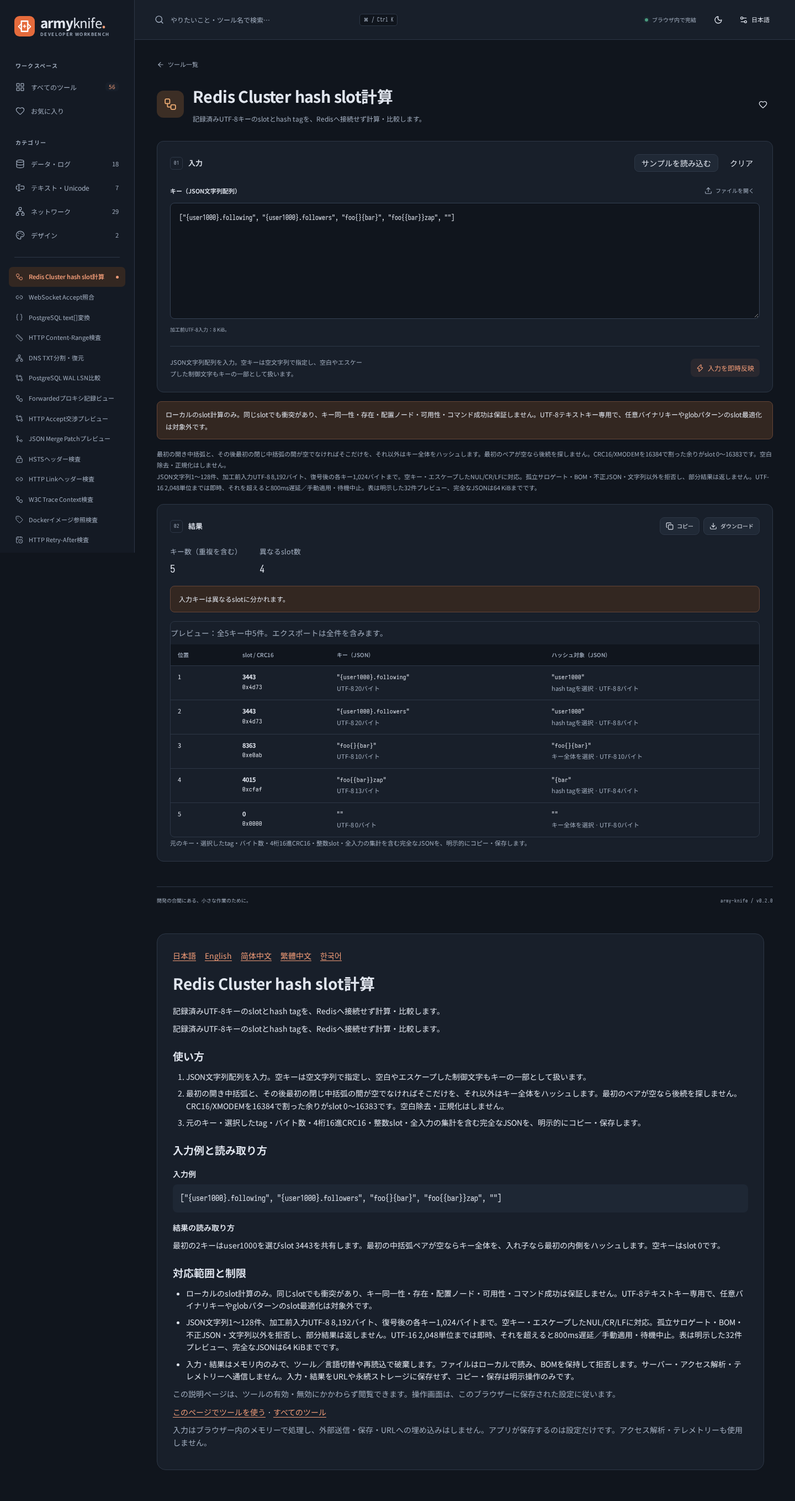
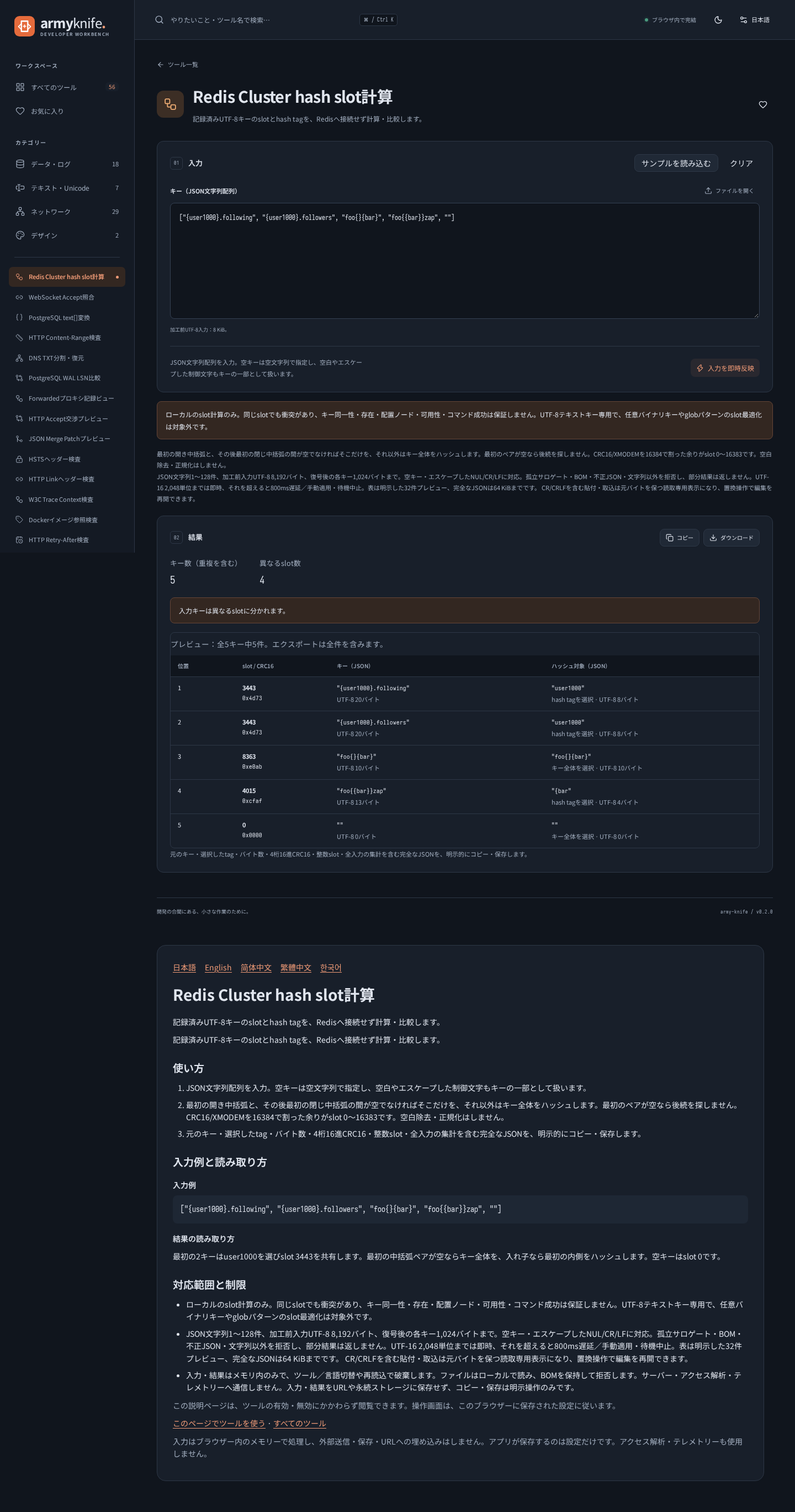
fix: preserve raw Redis inputs and match live asset audits

diff --git a/src/i18n/redis-slots.ts b/src/i18n/redis-slots.ts
@@ -20,7 +20,7 @@ const en = {
   "redis.preview": "Preview: {shown} of {total} keys. Export includes every key.",
   "redis.scope": "Local slot arithmetic only. Equal slots can collide and do not prove equal keys, key existence, node placement, availability or command success. UTF-8 text keys only; arbitrary binary keys and glob-pattern slot optimization are outside this tool.",
   "redis.grammar": "Hash the nonempty text between the first opening brace and the next closing brace; otherwise hash the whole key. An empty first pair prevents searching for a later tag. CRC16/XMODEM modulo 16384 gives slots 0–16383. Text is never trimmed or normalized.",
-  "redis.limits": "1–128 JSON strings; raw input 8,192 UTF-8 bytes; each decoded key 1,024 bytes. Empty keys and escaped NUL/CR/LF are supported. Reject lone surrogates, BOM, malformed JSON and nonstrings without partial output. Up to 2,048 UTF-16 units applies immediately; larger input waits 800ms or manual apply, with cancellation. The labelled table shows 32 rows; complete JSON is limited to 64 KiB.",
+  "redis.limits": "1–128 JSON strings; raw input 8,192 UTF-8 bytes; each decoded key 1,024 bytes. Empty keys and escaped NUL/CR/LF are supported. Reject lone surrogates, BOM, malformed JSON and nonstrings without partial output. Up to 2,048 UTF-16 units applies immediately; larger input waits 800ms or manual apply, with cancellation. The labelled table shows 32 rows; complete JSON is limited to 64 KiB. CR/CRLF pastes and imports retain original bytes in a protected read-only preview; use replacement to resume editing.",
   "redis.privacy": "Input and results stay in memory and clear on tool/language navigation or reload. Files are read locally; BOM is preserved for rejection. No server, analytics or telemetry is contacted. No input or result is saved in a URL or persistent storage. Copy/download happens only on request.",
   "redis.exportHelp": "Explicitly copy or download the complete JSON report, including original keys, selected tags, byte counts, four-digit hexadecimal CRC16, integer slots and full-input slot totals.",
   "redis.exampleResult": "The first two example keys select user1000 and share slot 3443. An empty first brace pair hashes the whole key; nested braces select the first interior. The empty key hashes to slot 0.",
@@ -53,7 +53,7 @@ const ja: Messages = {
   "redis.preview": "プレビュー：全{total}キー中{shown}件。エクスポートは全件を含みます。",
   "redis.scope": "ローカルのslot計算のみ。同じslotでも衝突があり、キー同一性・存在・配置ノード・可用性・コマンド成功は保証しません。UTF-8テキストキー専用で、任意バイナリキーやglobパターンのslot最適化は対象外です。",
   "redis.grammar": "最初の開き中括弧と、その後最初の閉じ中括弧の間が空でなければそこだけを、それ以外はキー全体をハッシュします。最初のペアが空なら後続を探しません。CRC16/XMODEMを16384で割った余りがslot 0〜16383です。空白除去・正規化はしません。",
-  "redis.limits": "JSON文字列1〜128件、加工前入力UTF-8 8,192バイト、復号後の各キー1,024バイトまで。空キー・エスケープしたNUL/CR/LFに対応。孤立サロゲート・BOM・不正JSON・文字列以外を拒否し、部分結果は返しません。UTF-16 2,048単位までは即時、それを超えると800ms遅延／手動適用・待機中止。表は明示した32件プレビュー、完全なJSONは64 KiBまでです。",
+  "redis.limits": "JSON文字列1〜128件、加工前入力UTF-8 8,192バイト、復号後の各キー1,024バイトまで。空キー・エスケープしたNUL/CR/LFに対応。孤立サロゲート・BOM・不正JSON・文字列以外を拒否し、部分結果は返しません。UTF-16 2,048単位までは即時、それを超えると800ms遅延／手動適用・待機中止。表は明示した32件プレビュー、完全なJSONは64 KiBまでです。 CR/CRLFを含む貼付・取込は元バイトを保つ読取専用表示になり、置換操作で編集を再開できます。",
   "redis.privacy": "入力・結果はメモリ内のみで、ツール／言語切替や再読込で破棄します。ファイルはローカルで読み、BOMを保持して拒否します。サーバー・アクセス解析・テレメトリーへ通信しません。入力・結果をURLや永続ストレージに保存せず、コピー・保存は明示操作のみです。",
   "redis.exportHelp": "元のキー・選択したtag・バイト数・4桁16進CRC16・整数slot・全入力の集計を含む完全なJSONを、明示的にコピー・保存します。",
   "redis.exampleResult": "最初の2キーはuser1000を選びslot 3443を共有します。最初の中括弧ペアが空ならキー全体を、入れ子なら最初の内側をハッシュします。空キーはslot 0です。",
@@ -77,7 +77,7 @@ const zhCN: Messages = {
   "redis.bytes": "{count} UTF-8 字节", "redis.preview": "预览：{total} 个键中的 {shown} 个。导出包含全部键。",
   "redis.scope": "仅在本地计算槽位。同槽可能碰撞，不证明键相同、存在、节点分配、可用性或命令成功。仅支持 UTF-8 文本键；不支持任意二进制键或 glob 模式槽优化。",
   "redis.grammar": "取第一个左花括号与其后第一个右花括号之间的非空文本，否则使用完整键。首对为空时不再查找后续标签。CRC16/XMODEM 对 16384 取余得到 0–16383 的槽位。不删除空格或规范化文本。",
-  "redis.limits": "1–128 个 JSON 字符串，原始 UTF-8 输入 8,192 字节，每个解码键 1,024 字节。支持空键和转义 NUL/CR/LF。拒绝孤立代理项、BOM、无效 JSON 和非字符串，不返回部分结果。2,048 UTF-16 单位以内即时更新，更长时延迟 800ms 或手动应用，可取消等待。表格明确预览 32 行，完整 JSON 上限 64 KiB。",
+  "redis.limits": "1–128 个 JSON 字符串，原始 UTF-8 输入 8,192 字节，每个解码键 1,024 字节。支持空键和转义 NUL/CR/LF。拒绝孤立代理项、BOM、无效 JSON 和非字符串，不返回部分结果。2,048 UTF-16 单位以内即时更新，更长时延迟 800ms 或手动应用，可取消等待。表格明确预览 32 行，完整 JSON 上限 64 KiB。 含 CR/CRLF 的粘贴或导入保留原始字节，以只读方式显示；替换后可继续编辑。",
   "redis.privacy": "输入与结果仅保存在内存，切换工具、语言或刷新时清除。本地读取文件并保留 BOM 以拒绝。不联系服务器、访问统计或遥测，不写入 URL 或持久存储。复制与下载需明确操作。",
   "redis.exportHelp": "明确复制或下载完整 JSON，包含原始键、选定标签、字节数、四位十六进制 CRC16、整数槽位及全部输入的槽位汇总。",
   "redis.exampleResult": "前两个示例键选择 user1000 并共享槽 3443。首对花括号为空时使用完整键，嵌套时取第一个内部文本。空键位于槽 0。",
@@ -101,7 +101,7 @@ const zhTW: Messages = {
   "redis.bytes": "{count} UTF-8 位元組", "redis.preview": "預覽：{total} 個鍵中的 {shown} 個。匯出包含全部鍵。",
   "redis.scope": "僅在本機計算槽位。同槽可能碰撞，不證明鍵相同、存在、節點配置、可用性或命令成功。僅支援 UTF-8 文字鍵；不支援任意二進位鍵或 glob 模式槽最佳化。",
   "redis.grammar": "取第一個左大括號與其後第一個右大括號之間的非空文字，否則使用完整鍵。首對為空時不再尋找後續標籤。CRC16/XMODEM 對 16384 取餘數得到 0–16383 的槽位。不刪除空白或正規化文字。",
-  "redis.limits": "1–128 個 JSON 字串，原始 UTF-8 輸入 8,192 位元組，每個解碼鍵 1,024 位元組。支援空鍵與跳脫 NUL/CR/LF。拒絕孤立代理項、BOM、無效 JSON 與非字串，不回傳部分結果。2,048 UTF-16 單位內即時更新，更長時延遲 800ms 或手動套用，可取消等待。表格明確預覽 32 列，完整 JSON 上限 64 KiB。",
+  "redis.limits": "1–128 個 JSON 字串，原始 UTF-8 輸入 8,192 位元組，每個解碼鍵 1,024 位元組。支援空鍵與跳脫 NUL/CR/LF。拒絕孤立代理項、BOM、無效 JSON 與非字串，不回傳部分結果。2,048 UTF-16 單位內即時更新，更長時延遲 800ms 或手動套用，可取消等待。表格明確預覽 32 列，完整 JSON 上限 64 KiB。 含 CR/CRLF 的貼上或匯入保留原始位元組，以唯讀方式顯示；取代後可繼續編輯。",
   "redis.privacy": "輸入與結果僅存於記憶體，切換工具、語言或重新載入時清除。本機讀取檔案並保留 BOM 以拒絕。不聯絡伺服器、造訪統計或遙測，不寫入 URL 或持久儲存。複製與下載需明確操作。",
   "redis.exportHelp": "明確複製或下載完整 JSON，包含原始鍵、選定標籤、位元組數、四位十六進位 CRC16、整數槽位及全部輸入的槽位彙總。",
   "redis.exampleResult": "前兩個範例鍵選擇 user1000 並共用槽 3443。首對大括號為空時使用完整鍵，巢狀時取第一個內部文字。空鍵位於槽 0。",
@@ -125,7 +125,7 @@ const ko: Messages = {
   "redis.bytes": "UTF-8 {count}바이트", "redis.preview": "미리보기: 전체 {total}개 중 {shown}개 키. 내보내기는 전체를 포함합니다.",
   "redis.scope": "로컬 슬롯 계산만 합니다. 같은 슬롯에도 충돌이 가능하며 키 동일성·존재·노드 배치·가용성·명령 성공을 보장하지 않습니다. UTF-8 텍스트 키 전용이며 임의 바이너리 키나 glob 패턴 슬롯 최적화는 지원하지 않습니다.",
   "redis.grammar": "첫 여는 중괄호와 그다음 첫 닫는 중괄호 사이가 비어 있지 않으면 해당 텍스트를, 그 외에는 전체 키를 해시합니다. 첫 쌍이 비면 뒤의 태그를 찾지 않습니다. CRC16/XMODEM을 16384로 나눈 나머지가 슬롯 0–16383입니다. 공백 제거나 정규화를 하지 않습니다.",
-  "redis.limits": "JSON 문자열 1–128개, 원본 UTF-8 입력 8,192바이트, 디코딩한 키당 1,024바이트. 빈 키와 이스케이프 NUL/CR/LF를 지원합니다. 고립 서로게이트·BOM·잘못된 JSON·문자열 이외 값은 부분 결과 없이 거부합니다. UTF-16 2,048단위까지 즉시, 초과 시 800ms 지연 또는 수동 적용과 대기 취소를 지원합니다. 표는 명시한 32행 미리보기이며 전체 JSON은 64 KiB까지입니다.",
+  "redis.limits": "JSON 문자열 1–128개, 원본 UTF-8 입력 8,192바이트, 디코딩한 키당 1,024바이트. 빈 키와 이스케이프 NUL/CR/LF를 지원합니다. 고립 서로게이트·BOM·잘못된 JSON·문자열 이외 값은 부분 결과 없이 거부합니다. UTF-16 2,048단위까지 즉시, 초과 시 800ms 지연 또는 수동 적용과 대기 취소를 지원합니다. 표는 명시한 32행 미리보기이며 전체 JSON은 64 KiB까지입니다. CR/CRLF 붙여넣기·가져오기는 원본 바이트를 읽기 전용으로 보존하며 바꾸기 동작으로 편집을 재개합니다.",
   "redis.privacy": "입력과 결과는 메모리에만 있고 도구·언어 전환이나 새로고침 시 지웁니다. 파일은 로컬에서 읽고 BOM은 보존하여 거부합니다. 서버·방문 분석·원격 측정에 연결하지 않으며 URL이나 영구 저장소에 입력·결과를 저장하지 않습니다. 복사·다운로드는 명시적으로 실행합니다.",
   "redis.exportHelp": "원본 키, 선택한 태그, 바이트 수, 네 자리 16진 CRC16, 정수 슬롯, 전체 입력 슬롯 집계를 포함한 완전한 JSON을 명시적으로 복사·다운로드합니다.",
   "redis.exampleResult": "첫 두 예제 키는 user1000을 선택하여 슬롯 3443을 공유합니다. 첫 중괄호 쌍이 비면 전체 키를, 중첩 시 첫 내부 텍스트를 해시합니다. 빈 키는 슬롯 0입니다.",

diff --git a/tests/e2e/redis-slots.spec.ts b/tests/e2e/redis-slots.spec.ts
@@ -1,18 +1,12 @@
-import { readdir } from "node:fs/promises";
+import { readFile } from "node:fs/promises";
 import { resolve } from "node:path";
 import { test as base, expect } from "@playwright/test";
 import { redisSlotsMessages } from "../../src/i18n/redis-slots";
 import { REDIS_SLOTS_SAMPLE } from "../../src/lib/tools/redis-slots-sample";
+import { parsePublicAssets } from "../../scripts/public-assets";
 
 const PRIVATE = "PRIVATE_REDIS_SLOTS_175";
-async function assets(dir: string, prefix = "/army-knife/"): Promise<string[]> {
-  return (await Promise.all((await readdir(dir, { withFileTypes: true })).map(entry =>
-    entry.isDirectory() ? assets(`${dir}/${entry.name}`, `${prefix}${entry.name}/`) : [`${prefix}${entry.name}`],
-  ))).flat();
-}
-const allowed = assets("dist").then(paths => new Set([
-  ...paths, ...paths.filter(path => path.endsWith("index.html")).map(path => path.slice(0, -10)),
-]));
+const allowed = readFile("dist/public-assets.json", "utf8").then(text => parsePublicAssets(text));
 const test = base.extend<{ audit: void }>({
   audit: [async ({ context, page, baseURL }, use) => {
     const requests: { url: string; method: string; headers: Record<string, string>; body: string | null }[] = [];
@@ -145,6 +139,28 @@ test("pending local file reads hide exports and cannot overwrite a sample", asyn
   await page.evaluate(() => (window as unknown as { finishRead: () => void }).finishRead());
   await expect(page.locator("#redis-slots-input")).toHaveValue(REDIS_SLOTS_SAMPLE);
   await expect(page.getByTestId("redis-slots-slot").first()).toHaveText("3443");
+});
+
+test("raw CRLF paste boundaries and protected original-byte workflow", async ({ page }) => {
+  await page.goto("./en/tools/redis-slots/"); await page.getByTestId("redis-slots-sample").click();
+  const input = page.locator("#redis-slots-input"), result = page.getByTestId("redis-slots-result");
+  const paste = (value: string) => input.evaluate((element, text) => {
+    const field = element as HTMLTextAreaElement; field.focus(); field.setSelectionRange(0, field.value.length);
+    const event = new Event("paste", { bubbles: true, cancelable: true });
+    Object.defineProperty(event, "clipboardData", { value: { getData: () => text } }); field.dispatchEvent(event);
+    return event.defaultPrevented;
+  }, value);
+  const exact = '["界"]\r\n' + " ".repeat(8183);
+  expect(Buffer.byteLength(exact)).toBe(8192); expect(await paste(exact)).toBe(true);
+  await expect(input).toHaveAttribute("readonly", ""); await expect(page.getByTestId("preserved-cr-input")).toBeVisible();
+  await page.getByTestId("apply-now").click(); await expect(page.getByTestId("redis-slots-count")).toHaveText("1");
+  const pending = page.waitForEvent("download"); await page.getByTestId("download-raw-cr-input").click();
+  const download = await pending, chunks: Buffer[] = [];
+  for await (const chunk of (await download.createReadStream())!) chunks.push(chunk);
+  expect(Buffer.concat(chunks).toString("utf8")).toBe(exact);
+  await page.getByTestId("replace-raw-cr-input").click(); await expect(input).toHaveValue(""); await expect(result).toHaveCount(0);
+  await page.getByTestId("redis-slots-sample").click(); expect(await paste(exact + " ")).toBe(true);
+  await expect(result).toHaveCount(0); await expect(page.locator(".output-actions")).toHaveCount(0);
 });
 
 test.describe("production hostname privacy", () => {

diff --git a/scripts/public-assets.ts b/scripts/public-assets.ts
@@ -1,0 +1,38 @@
+import { readdirSync, writeFileSync } from "node:fs";
+import { join } from "node:path";
+
+const BASE = "/army-knife/";
+export const PUBLIC_ASSETS_FILE = "public-assets.json";
+
+/** Build-time file inventory; never includes tool input or runtime state. */
+export function distributionFiles(root: string, prefix = BASE): string[] {
+  return readdirSync(root, { withFileTypes: true }).flatMap(entry => {
+    if (entry.isSymbolicLink()) throw new Error("Public asset manifest cannot contain symlinks.");
+    return entry.isDirectory() ? distributionFiles(join(root, entry.name), prefix + entry.name + "/") : [prefix + entry.name];
+  }).sort();
+}
+
+export function writePublicAssets(root: string, revision: string): void {
+  if (!/^[0-9a-f]{40}$/.test(revision)) throw new Error("Invalid public asset revision.");
+  const paths = [...new Set([...distributionFiles(root), BASE + PUBLIC_ASSETS_FILE])].sort();
+  writeFileSync(join(root, PUBLIC_ASSETS_FILE), JSON.stringify({ schema: 1, revision, paths }, null, 2) + "\n");
+}
+
+/** Shared by local and actual-Pages browser audits, including the clean CI runner. */
+export function parsePublicAssets(text: string, expectedRevision?: string): Set<string> {
+  const invalid = () => new Error("Invalid public asset manifest.");
+  if (text.length > 1024 * 1024) throw invalid();
+  let data;
+  try { data = JSON.parse(text); } catch { throw invalid(); }
+  if (!data || data.schema !== 1 || typeof data.revision !== "string" || !/^[0-9a-f]{40}$/.test(data.revision) ||
+      !Array.isArray(data.paths) || data.paths.length === 0 || data.paths.length > 10000) throw invalid();
+  if (expectedRevision !== undefined && data.revision !== expectedRevision) throw new Error("Public asset revision does not match the deployed revision.");
+  const paths = data.paths as unknown[];
+  if (paths.some(path => typeof path !== "string" || !path.startsWith(BASE) || path.endsWith("/") || /[?#%\\\s]/u.test(path) ||
+      Array.from(path).some(c => c.charCodeAt(0) < 0x20 || c.charCodeAt(0) === 0x7f) ||
+      path.slice(1).split("/").some(part => part === "." || part === ".." || part === ""))) throw invalid();
+  const files = paths as string[];
+  if (new Set(files).size !== files.length || files.some((path, i) => i > 0 && files[i - 1]! >= path) ||
+      !files.includes(BASE + PUBLIC_ASSETS_FILE) || !files.includes(BASE + "index.html")) throw invalid();
+  return new Set(files.flatMap(path => path.endsWith("/index.html") ? [path, path.slice(0, -10)] : [path]));
+}

diff --git a/src/components/tools/RedisSlotsTool.test.ts b/src/components/tools/RedisSlotsTool.test.ts
@@ -108,6 +108,28 @@ describe("Redis slots real Vapor view", () => {
     expect(wrapper.get("#redis-slots-input").element).toHaveProperty("value", REDIS_SLOTS_SAMPLE);
     expect(wrapper.get('[data-testid="redis-slots-slot"]').text()).toBe("3443");
   });
+  it("checks original pasted CRLF bytes on both sides of the raw UTF-8 boundary", async () => {
+    settings.preferences.autoApply = false;
+    const paste = async (text: string) => {
+      const field = wrapper.get("#redis-slots-input").element as HTMLTextAreaElement;
+      field.setSelectionRange(0, field.value.length);
+      const event = new Event("paste", { bubbles: true, cancelable: true });
+      Object.defineProperty(event, "clipboardData", { value: { getData: () => text } });
+      field.dispatchEvent(event); await flushPromises(); return event;
+    };
+    await sample();
+    const exact = '["界"]\r\n' + " ".repeat(8183);
+    expect(new TextEncoder().encode(exact)).toHaveLength(8192);
+    expect((await paste(exact)).defaultPrevented).toBe(true);
+    expect(wrapper.find('[data-testid="preserved-cr-input"]').exists()).toBe(true);
+    await wrapper.get('[data-testid="apply-now"]').trigger("click");
+    expect(result().exists()).toBe(true);
+    await result().get(".output-actions button").trigger("click"); await flushPromises();
+    expect(JSON.parse(copy.mock.calls.at(-1)![0]).keys[0].key).toBe("界");
+    await sample();
+    expect((await paste(exact + " ")).defaultPrevented).toBe(true);
+    expect(result().exists()).toBe(false); expect(wrapper.find(".output-actions").exists()).toBe(false);
+  });
   it("translates all statuses/errors in five languages and clears on remount", async () => {
     const errors = vi.spyOn(console, "error").mockImplementation(() => {});
     for (const locale of ["ja", "en", "zh-CN", "zh-TW", "ko"] as const) {

diff --git a/tests/public/redis-slots.spec.ts b/tests/public/redis-slots.spec.ts
@@ -1,9 +1,13 @@
 import { expect, test } from "@playwright/test";
 import { redisSlotsMessages } from "../../src/i18n/redis-slots";
+import { parsePublicAssets } from "../../scripts/public-assets";
 
 const PRIVATE = "PRIVATE_REDIS_SLOTS_PUBLIC_175";
 for (const locale of ["ja", "en", "zh-CN", "zh-TW", "ko"] as const) {
-  test("published Redis Cluster slot operation in " + locale, async ({ page, context, baseURL }, testInfo) => {
+  test("published Redis Cluster slot operation in " + locale, async ({ page, context, request, baseURL }, testInfo) => {
+    const manifest = await request.get(new URL("public-assets.json", baseURL!).href, { maxRedirects: 0 });
+    expect(manifest.status()).toBe(200);
+    const allowed = parsePublicAssets(await manifest.text(), process.env.ARMY_KNIFE_DEPLOYED_SHA ?? process.env.GITHUB_SHA);
     const errors: string[] = [], requests: { url: string; method: string; headers: Record<string, string>; body: string | null }[] = [], sockets: string[] = [];
     page.on("pageerror", error => errors.push(error.message));
     page.on("websocket", socket => sockets.push(socket.url()));
@@ -34,7 +38,7 @@ for (const locale of ["ja", "en", "zh-CN", "zh-TW", "ko"] as const) {
     await page.getByTestId("redis-slots-clear").click(); await page.reload(); await expect(input).toHaveValue("");
     for (const request of requests) {
       const url = new URL(request.url); expect(url.origin).toBe(new URL(baseURL!).origin);
-      expect(url.pathname).toMatch(/^\/army-knife\//); expect(url.search).toBe("");
+      expect(allowed.has(url.pathname)).toBe(true); expect(url.search).toBe("");
       expect(request.method).toBe("GET"); expect(request.body).toBeNull();
     }
     expect(JSON.stringify(requests)).not.toContain(PRIVATE); expect(errors).toEqual([]); expect(sockets).toEqual([]);

diff --git a/src/components/tools/RedisSlotsTool.vue b/src/components/tools/RedisSlotsTool.vue
@@ -43,7 +43,7 @@ function replace(example: boolean) {
         <Button variant="ghost" size="sm" data-testid="redis-slots-clear" @click="replace(false)">{{ t("actions.clear") }}</Button>
       </div>
     </div>
-    <CodeInput :key="revision" :model-value="input" :label="t('redis.input')" :input-hint="t('redis.inputLimit')" input-id="redis-slots-input" :rows="5" :preserve-bom="true" :max-bytes="REDIS_SLOTS_LIMITS.inputBytes" :placeholder="REDIS_SLOTS_SAMPLE" @update:model-value="input = $event; rejected = false" @rejected="rejected = true" @loading="loading = $event" />
+    <CodeInput :key="revision" :model-value="input" :label="t('redis.input')" :input-hint="t('redis.inputLimit')" input-id="redis-slots-input" :rows="5" :preserve-bom="true" :preserve-carriage-returns="true" :max-bytes="REDIS_SLOTS_LIMITS.inputBytes" :placeholder="REDIS_SLOTS_SAMPLE" @update:model-value="input = $event; rejected = false" @rejected="rejected = true" @loading="loading = $event" />
     <div class="run-bar">
       <p class="hint">{{ t("tool.redis-slots.hint") }}</p>
       <ApplyControl :state="control" @apply="apply" @cancel="cancel" @auto="setAuto" />

diff --git a/vite.config.ts b/vite.config.ts
@@ -1,9 +1,11 @@
 import { fileURLToPath, URL } from "node:url";
 import { readFileSync } from "node:fs";
+import { execFileSync } from "node:child_process";
 import { defineConfig } from "vite-plus";
 import vue from "@vitejs/plugin-vue";
 import tailwindcss from "@tailwindcss/vite";
 import { writeStaticPages } from "./scripts/static-pages";
+import { writePublicAssets } from "./scripts/public-assets";
 
 export default defineConfig({
   base: "/army-knife/",
@@ -17,6 +19,7 @@ export default defineConfig({
       apply: "build",
       closeBundle() {
         writeStaticPages(fileURLToPath(new URL("./dist", import.meta.url)));
+        writePublicAssets(fileURLToPath(new URL("./dist", import.meta.url)), execFileSync("git", ["rev-parse", "HEAD"], { encoding: "utf8" }).trim());
       },
     },
     {

diff --git a/docs/redis-slots.md b/docs/redis-slots.md
@@ -31,7 +31,9 @@ hexadecimal. Output preserves input order and duplicate entries.
 - Malformed JSON, BOM, nonstrings and invalid counts reject the entire report.
 - Input through **2,048 UTF-16 units** applies immediately, even with delayed
   auto-apply off. Longer input uses existing **800ms/manual/cancel** controls.
-  The bounded synchronous calculation needs no Worker or WASM.
+  CR/CRLF paste/import preserves original bytes in the existing protected
+  read-only preview. Use Replace text, clear or sample to resume editing; the
+  original-byte download remains explicit. The bounded calculation needs no Worker or WASM.
 - The keyboard-focusable, horizontally scrollable table explicitly previews
   **32 rows**. Copy/download includes all accepted rows and full-input totals,
   capped at **64 KiB**. Keys and selected hash text are displayed as JSON strings; Unicode format,
@@ -60,6 +62,12 @@ honor the recurring request's explicit telemetry prohibition. The distribution
 verifier rejects any reintroduced third-party script/image/connect permission.
 E2E audits include serving the actual distribution under the published hostname,
 where hostname-conditional tracking previously ran, as well as live Pages checks.
+The build emits `public-assets.json` with its Git revision and exact file inventory.
+Distribution verification checks this against all real files. Local and live
+Pages audits share the same parser, file set and directory aliases; live CI also
+checks the deployed revision. Unlisted same-origin paths are refused by the audit.
+The manifest contains build metadata only and is fetched solely by verification,
+so no visitor input or new application network request is introduced.
 
 This is a complementary default-on workflow: no dedicated Redis Cluster key-slot
 tool appears in the [official DevToys bundled list](https://devtoys.app/) checked

diff --git a/docs/superpowers/specs/2026-11-18-redis-slots-design.md b/docs/superpowers/specs/2026-11-18-redis-slots-design.md
@@ -30,7 +30,9 @@ serve this offline workflow. Binary-key/hex modes and node mapping are excluded.
   Larger input uses existing 800ms/manual scheduling, pending/loading and
   cancellation. Edits, rejected imports, clearing, locale/navigation and
   disposal invalidate output. Read local UTF-8 files through existing bounds
-  and preserve BOM for rejection. No streaming or unlimited-file mode.
+  and preserve BOM for rejection. CR/CRLF paste/import uses the existing
+  protected read-only preview and explicit replacement/original-byte download.
+  No streaming or unlimited-file mode.
 - Same-slot equality does not establish command compatibility, topology,
   availability, key existence or distinct key identity; CRC/slot collisions
   are possible. No Redis, HTTP or WebSocket connection is opened.
@@ -61,3 +63,11 @@ Record synthetic screenshots and add existing-Pages tests. Run the complete
 repository gates on final head, get an independent immutable-diff review,
 verify checks/review conditions/main/head immediately before a normal merge,
 then verify automatic Pages deployment and the actual published tool.
+
+## Independent review fixes
+
+The initial immutable review identified raw CRLF-paste normalization at the input
+cap and a weaker live request-path audit. Regression tests reproduce both.
+Use the existing raw-CR input option; publish a build-only revision/file inventory
+verified against dist, and share its strict path parser across local/live audits.
+This adds no app request, runtime dependency or workflow permission.

diff --git a/docs/testing.md b/docs/testing.md
@@ -6,12 +6,15 @@ Pure tests cover the documented CRC vector, independent Python binascii vectors,
 all first-brace rules, duplicate/empty/control/Unicode keys, exact byte/count
 bounds, lone surrogates and atomic errors. Real Vapor covers full copy versus
 32-row preview, five locales, immediate/800ms/manual/cancel/disposal and pending
-file-read invalidation. Four-project production E2E covers keyboard/mobile,
+file-read invalidation, including raw 8,192/8,193-byte CRLF paste boundaries. Four-project production E2E covers keyboard/mobile,
 themes, all languages, complete actual downloads, imports, input lifecycle and
 exact-dist-asset privacy. A separate production-hostname route serves the same
 distribution to catch hostname-conditional telemetry. Public tests exercise the
 existing Pages deployment. CSP verifier regressions reject third-party
-script/image/connect exceptions. Synthetic screenshot keys contain no real data.
+script/image/connect exceptions. The build-generated `public-assets.json`
+contains the Git revision and exact distribution paths. Distribution verification
+rejects stale inventories; local and live audits use its shared parser and reject
+unlisted paths. Live CI verifies that the manifest matches the deployed revision. Synthetic screenshot keys contain no real data.
 These verify [offline slot arithmetic](redis-slots.md), not Redis command success.
 
 ## WebSocket Accept coverage (2026-11-18 JST)
